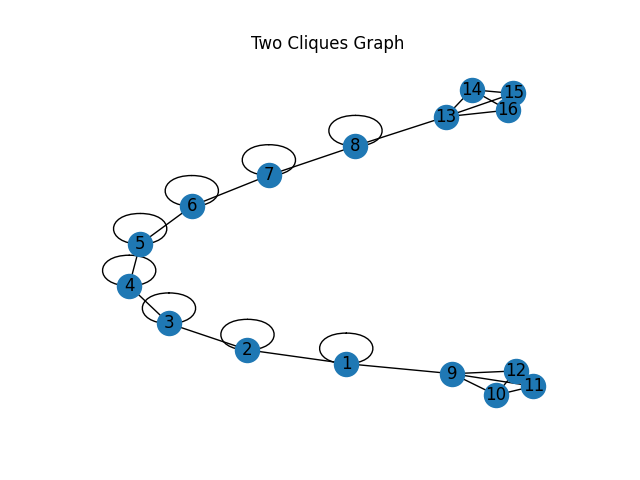
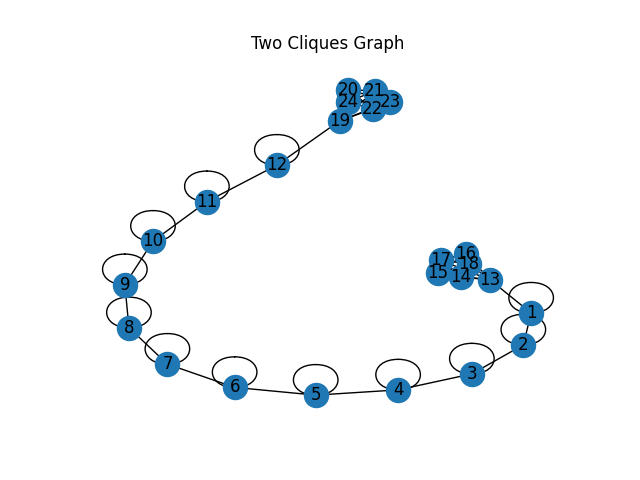
working stationary distribution

Changed region(s): [[0.1562, 0.1562, 0.875, 0.875], [0.7188, 0.6875, 0.75, 0.7188]]

diff --git a/linear_algebr_hometest.py b/linear_algebr_hometest.py
@@ -59,7 +59,7 @@ def ring(n):
         G.add_node(i)
         G.add_edge(i,i)
     for i in range (1, n+1):
-        if i is n:
+        if i ==  n:
             G.add_edge(n,1)
         else:
             G.add_edge(i, i+1)
@@ -139,7 +139,7 @@ def two_cliques(n):
 
     return G
 
-two_cliques_G = two_cliques(two_pow_11)
+two_cliques_G = two_cliques(24)
 print("finished creating two cliques")
 
 #fig, ax = plt.subplots()
@@ -148,42 +148,27 @@ print("finished creating two cliques")
 #plt.savefig("two_cliques_graph.png")
 
 #question 2
-def transition_matrix(G):
-    A = nx.to_numpy_array(G)
-    return A, A / A.sum(axis=1, keepdims=True)
 
-'''
-def stationary_distribution(transition_matrix):
-    # Find the eigenvector corresponding to the eigenvalue of 1
-    eigenvalues, eigenvectors = np.linalg.eig(transition_matrix.T)
-    stationary = eigenvectors[:, np.isclose(eigenvalues, 1)].flatten().real
-    # Normalize the eigenvector
-    return stationary / stationary.sum()'''
-def stationary_distribution(transition_matrix):
-    w, v = np.linalg.eig(transition_matrix.T)
-    i = np.argmin(np.abs(w - 1.0))
-    stationary = v[:, i].real
-    stationary /= stationary.sum()
-    return stationary
+def stationary_distribution(G):
+    p = []
+    adjacency = nx.to_numpy_array(G)
+    for row in adjacency:
+        p.append(sum(row))
 
+    p = np.array(p)
+    return adjacency, p / p.sum()
 
-adjacency_mat_candy, tran_mat_candy = transition_matrix(candyG)
-stationary_candy = stationary_distribution(tran_mat_candy)
-print("stationary candy:", stationary_candy)
-
-adjacency_mat_clique,tran_mat_clique = transition_matrix(cliqueG)
-stationary_clique = stationary_distribution(tran_mat_clique)
+adjacency_mat_clique ,stationary_clique = stationary_distribution(cliqueG)
 print("stationary clique:", stationary_clique)
 
-adjacency_mat_ring, tran_mat_ring = transition_matrix(ringG)
-stationary_ring = stationary_distribution(tran_mat_ring)
+adjacency_mat_ring ,stationary_ring = stationary_distribution(ringG)
 print("stationary ring:", stationary_ring)
 
-adjacency_mat_two_cliques, tran_mat_two_cliques = transition_matrix(two_cliques_G)
-stationary_two_cliques = stationary_distribution(tran_mat_two_cliques)
+adjacency_mat_candy ,stationary_candy = stationary_distribution(candyG)
+print("stationary candy:", stationary_candy)
+
+adjacency_mat_two_cliques, stationary_two_cliques = stationary_distribution(two_cliques_G)
 print("stationary two cliques:", stationary_two_cliques)
-
-
 #question 2/2
 
     
@@ -271,19 +256,16 @@ def calculate_eigenvalue_ratio(A, L_values):
 # Example usage
 L_values = [1/4, 1/8, 1/16, 1/32, 1/64, 1/128]
 '''
-
+'''
 def generalized_power_algorithm(G, tol):
     # Initialize the vector x with random values
     x = np.random.rand(len(G))
     # Set the number of iterations and tolerance level
-    max_iter = 1000    
     # Run the power iteration
-    for i in range(max_iter):
+    while(np.linalg.norm(x - x_old) < tol):
         x_old = x
         x = G @ x
         x = x / np.linalg.norm(x)
-        if np.linalg.norm(x - x_old) < tol:
-            break
     
     # Calculate the first and second eigenvalues
     lambda1 = np.dot(x, G @ x)
@@ -327,7 +309,7 @@ for k in range(2, 7):
     ratio = generalized_power_algorithm(adjacency_mat_two_cliques, tol)
     # Print the ratio
     print("Tolerance level:", tol, "Ratio of first and second eigenvalues:", ratio)
-
+'''
 '''
 two_cliques_ratios = calculate_eigenvalue_ratio(adjacency_mat_two_cliques, L_values)
 print("two cliques: ")
@@ -343,4 +325,5 @@ print(clique_ratios)
 
 ring_ratios = calculate_eigenvalue_ratio(adjacency_mat_ring, L_values)
 print("ring: ")
-print(ring_ratios)'''
+print(ring_ratios)
+'''
